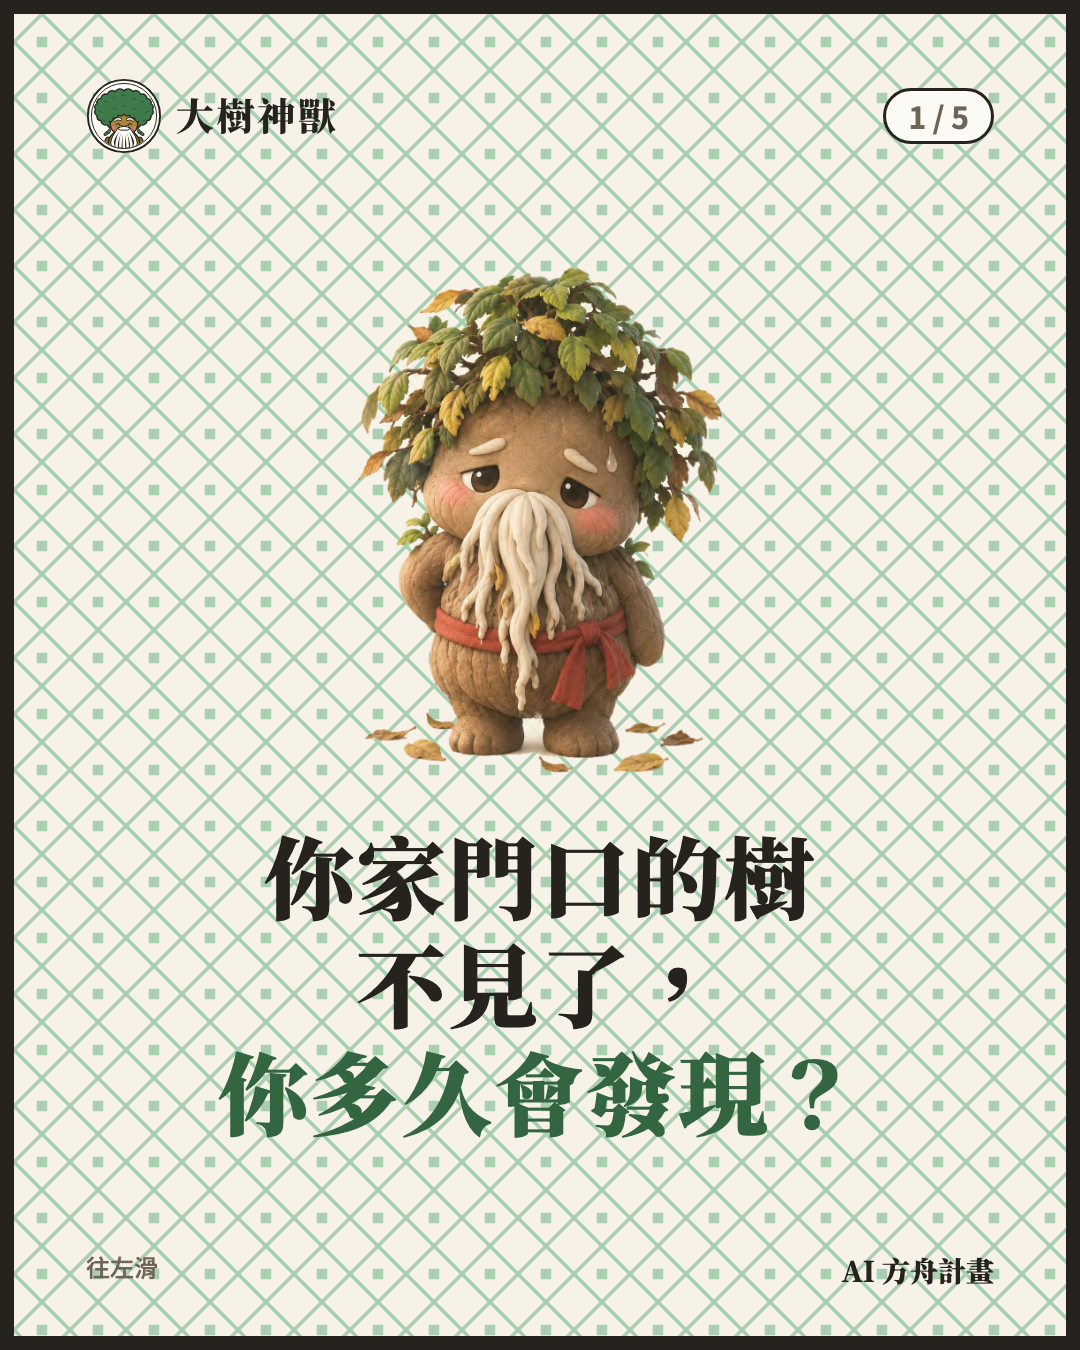
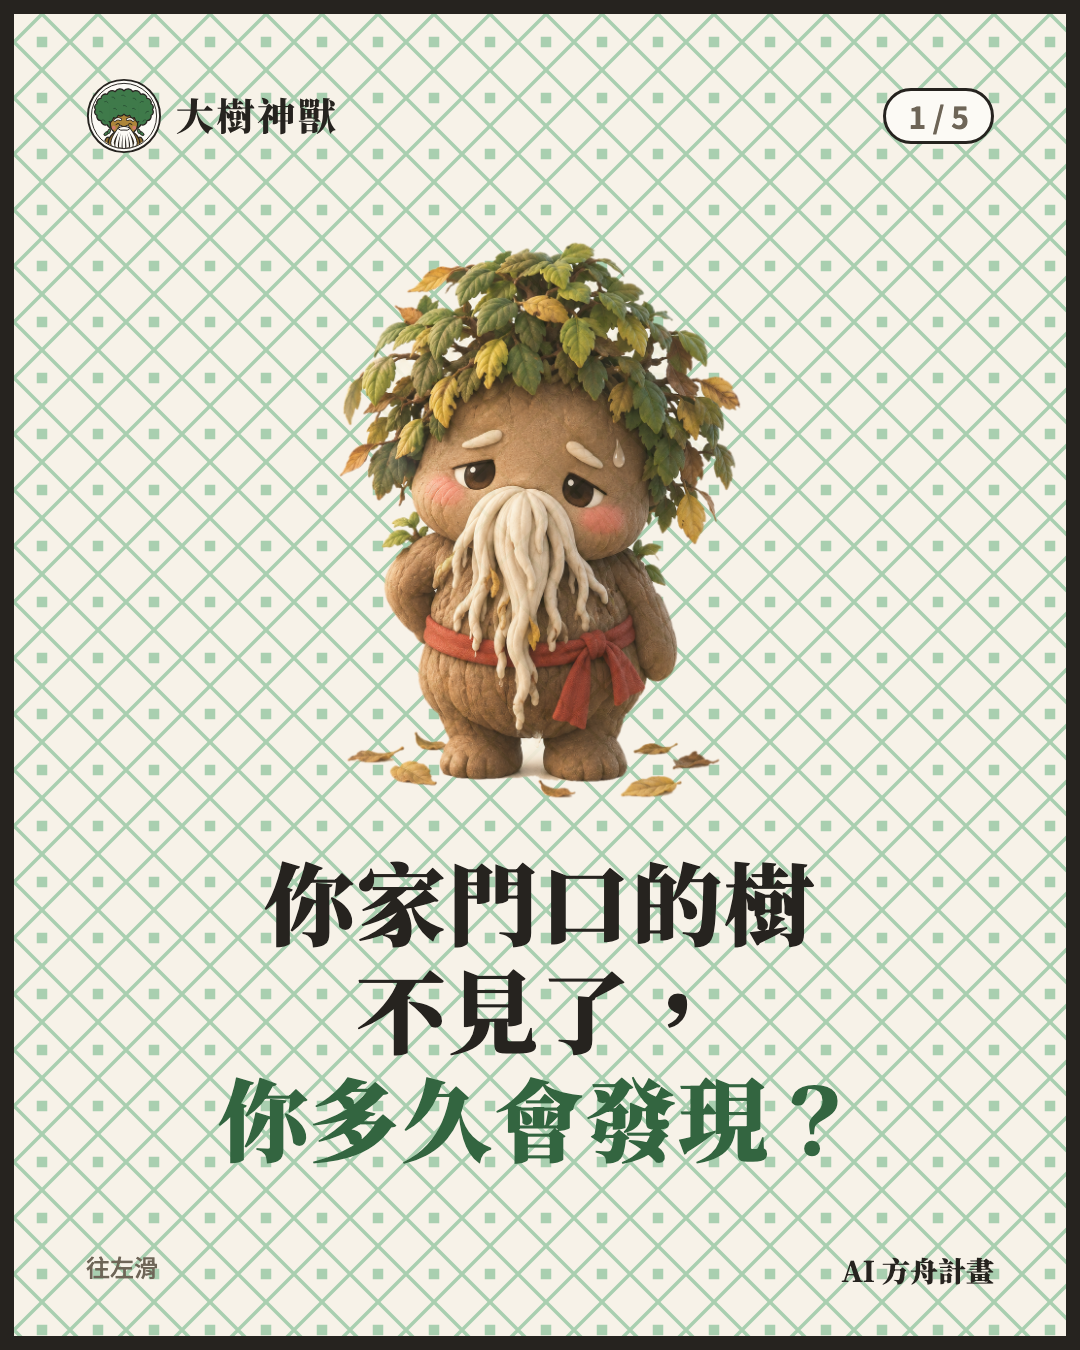
票選圖卡：C2-1 鬚鬚公放大 10%

Changed region(s): [[0.3056, 0.1556, 0.7028, 0.5911], [0.1833, 0.6222, 0.7944, 0.8711]]

diff --git a/docs/vote-campaign/cards/cards.html b/docs/vote-campaign/cards/cards.html
@@ -187,7 +187,7 @@ const CARDS = [
   // C2 為什麼要做（5 張）
   card('c2-1', `${head('1 / 5')}
     <div class="vc__body">
-      <img src="${B('xuxugong', 'sad')}" alt="" style="height:520px;align-self:center;opacity:.9">
+      <img src="${B('xuxugong', 'sad')}" alt="" style="height:572px;align-self:center;opacity:.9">
       <h1 class="h1" style="text-align:center;margin-top:40px">你家門口的樹<br>不見了，<br><span class="green">你多久會發現？</span></h1>
     </div>${foot('往左滑')}`),
   card('c2-2', `${head('2 / 5')}
